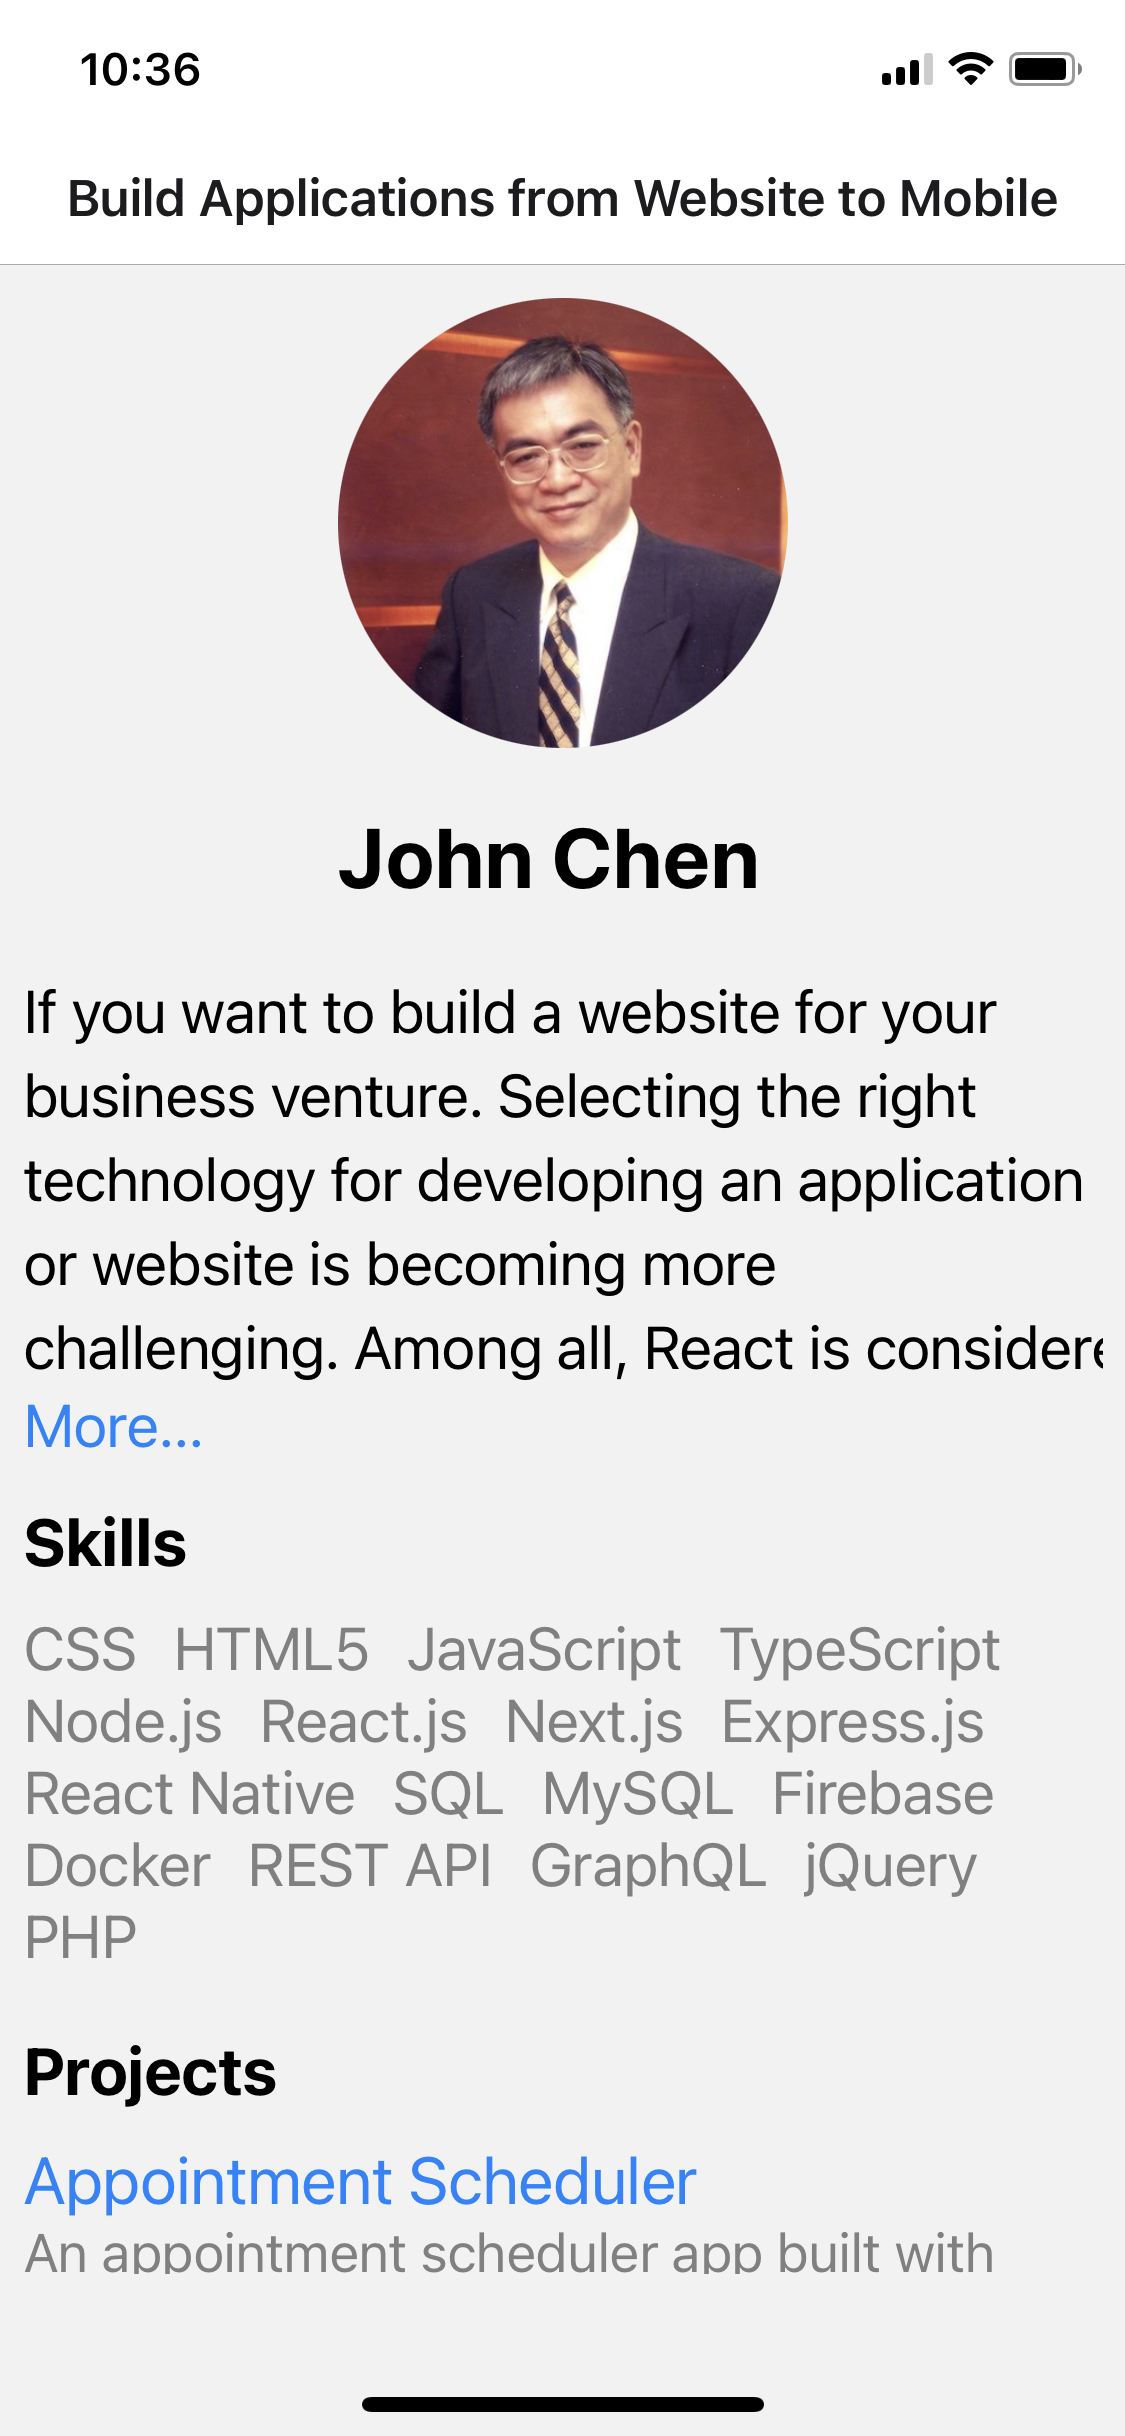
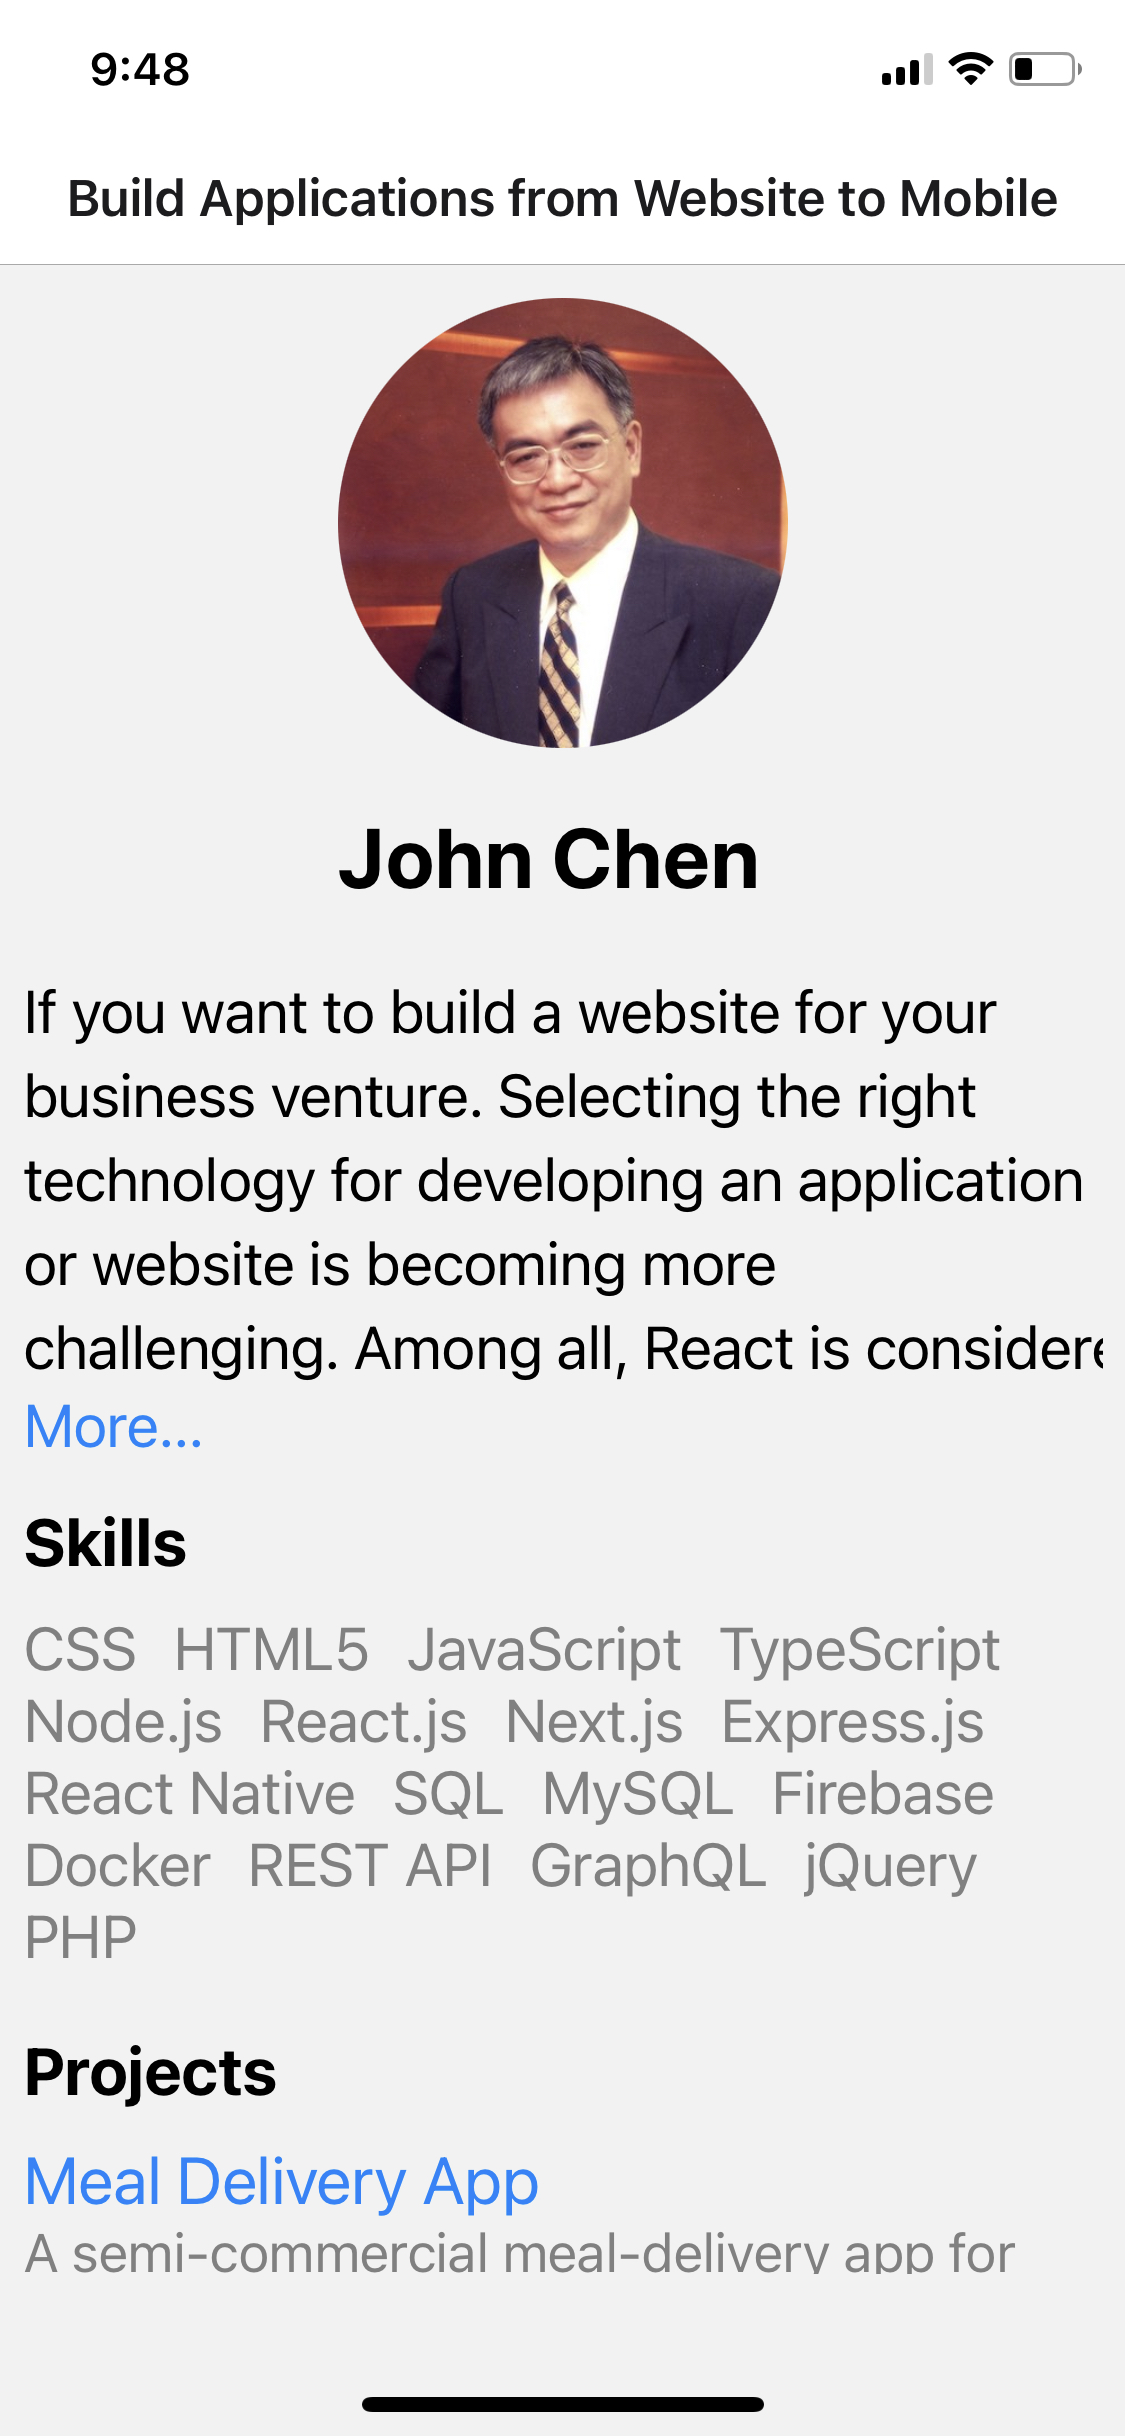
Second Commit

Changed region(s): [[0.0, 0.8736, 0.9022, 0.936], [0.0622, 0.0, 0.1867, 0.0312], [0.9022, 0.0, 0.9644, 0.0312]]

diff --git a/lib/projectslist.ts b/lib/projectslist.ts
@@ -1,6 +1,21 @@
 import { DataItem } from "./types";
 
 export const projectsList: DataItem[] = [
+    
+    {
+    id: 'meal-delivery',
+    contentHtml: '<p>This is a semi-commercial meal-delivery app for demonstrations. Everybody can sign up as a regular consumer in this app. If regular consumers want to list their restaurants in the app for delivery, any user can express their intent in the app. The app administrator has the authority to approve the application. If the application is approved, the applicant will become a restaurant owner. Restaurant owners can play dual roles as restaurant owners and as regular consumers. Restaurant owners can place orders as regular users to any restaurant except for the one they manage.</p><p>The key functionalities of this app are summarized as bolow:</p><ol><li>Everybody can sign up as a regular consumer in this app.</li><li>Registered consumers can apply as restaurant owners to list their restaurants in the app for delivery. The applications need approval by the app administrator.</li><li>Restaurant owners can play dual roles as restaurant owners and as regular consumers. Restaurant owners can place orders as regular users to any restaurant except for the one they manage.</li><li>Restaurant owners have the authority to list their restaurants in the app, which still need the app administrator’s approval to be officially on board.</li><li>Restaurant owners have the authority to add any meals to the restaurants they manage.</li><li>Restaurant owners can block users. The blocked users will not be able to follow the restaurants and place orders.</li><li>An order should be placed for a single restaurant only.</li><li>Once a delivery order is placed, both the placing user and the restaurant owner can instantaneously follow the delivery status. The placing users can cancel the orders if the restaurant owner does not start processing.</li><li>Regular users can track down all their purchase order records.</li><li>Restaurant owners can examine all the clients, which have placed orders at their restaurants, and their purchase order records.</li></ol><p><strong>iOS</strong> and <strong>Android</strong> mobile apps are also delivered. The apps are developed with <strong>React Native</strong>, anyone who is interested can test the apps through the <a href="https://expo.dev/@jglchen/meal-delivery">Expo Publish Link</a> with <a href="https://expo.dev/client">Expo Go</a> app.</p>',
+    title: 'Meal Delivery App',
+    description: 'A semi-commercial meal-delivery app for demonstrations.',
+    appurl: 'https://meal-delivery-three.vercel.app',
+    source: 'https://github.com/jglchen/meal-delivery',
+    nativepub: 'https://exp.host/@jglchen/meal-delivery',
+    nativesource: 'https://github.com/jglchen/react-native-meal-delivery',
+    docker: 'docker run -p 3000:3000 jglchen/meal-delivery',
+    siteimg: 'pc-meal-delivery.png',
+    mobileimg: 'm-meal-delivery.png',
+    priority: 220
+    },    
     {
     id: 'scheduler-app',
     contentHtml: '<p>This is an appointment scheduler app for demonstrations. Once you sign up for this app, you can set up scheduled activities in the app for you. You can list the meeting targets with their email addresses and ask the app to send confirmation emails for a meeting appointment.</p><p>Users can quickly check their scheduled activities while browsing calendars, and then select a single date or date ranges to list out all the scheduled activities in the selected period.</p><p><strong>iOS</strong> and <strong>Android</strong> mobile apps are also delivered. The apps are developed with <strong>React Native</strong>, anyone who is interested can test the apps through the <a href="https://expo.dev/@jglchen/scheduler-app">Expo Publish Link</a> with <a href="https://expo.dev/client">Expo Go</a> app.</p>',

diff --git a/lib/imagesource.ts b/lib/imagesource.ts
@@ -1,5 +1,9 @@
 export function getImageSource(imgsource: string){
     switch (imgsource) { 
+        case 'pc-meal-delivery.png':
+            return require('../assets/images/pc-meal-delivery.png');
+        case 'm-meal-delivery.png':
+            return require('../assets/images/m-meal-delivery.png');
         case 'pc-scheduler-app.png':
             return require('../assets/images/pc-scheduler-app.png');
         case 'm-scheduler-app.png':
